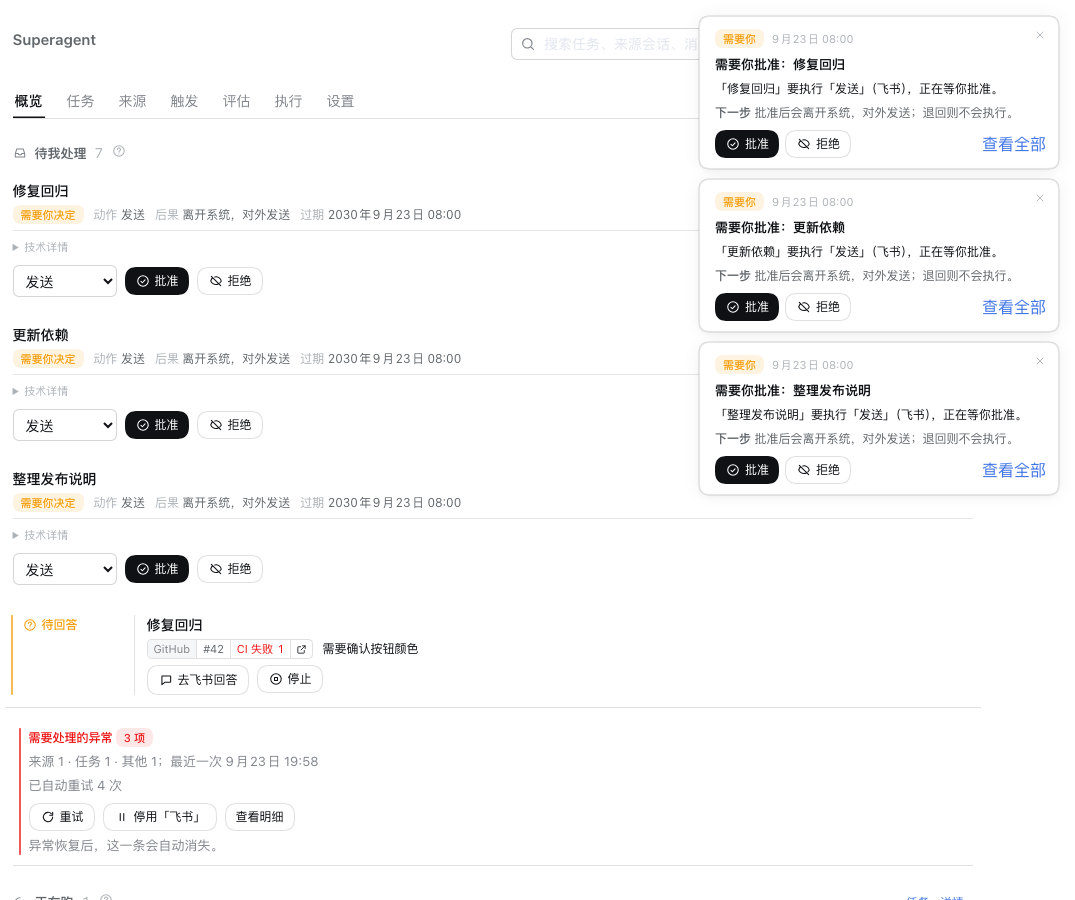
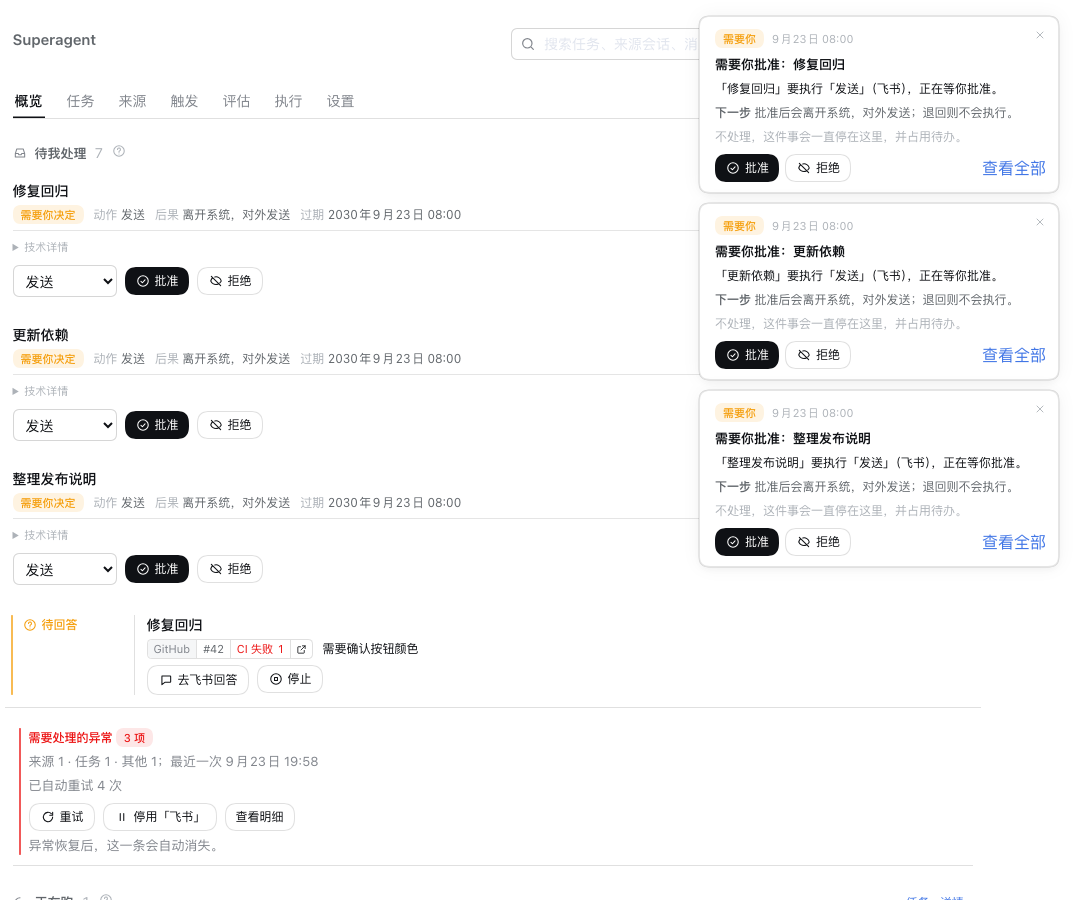
fix(ui): keep the open hierarchy fresh and finish the notice pass
Resolve every stack entry against the newest tasks poll so status, next step,
blocker and reports do not freeze after entry; use the 021 words for blocked
and unfinished tasks; show unread dots and per-group unread counts; pause cards
on keyboard focus and announce the stack politely. Rename the old E2 tree tab,
keep the session entry on the root level, and refresh the captures.

diff --git a/packages/dsh/src/client/task-detail.tsx b/packages/dsh/src/client/task-detail.tsx
@@ -27,6 +27,9 @@ export function nextStep(task: TaskView, t: T): string {
   return t('taskHierarchyNextWorking')
 }
 
+const statusLabel = (t: T, status: TaskView['status']): string => status === 'blocked' ? t('stage.blocked')
+  : status === 'failed' ? t('stage.failed') : t(`activityStatus.${status}`)
+
 const profileText = (t: T, profile: { id: string; revision: number } | undefined): string =>
   profile ? t('taskHierarchyOwnerProfile', profile) : t('taskHierarchyOwnerDefault')
 
@@ -46,7 +49,7 @@ function Blocker({ task, t }: { task: TaskView; t: T }) {
   const label = task.blocker.kind === 'delivery' ? t('taskHierarchyNextDelivery')
     : task.blocker.kind === 'orphaned' ? t('tasksNeedsOwner')
       : task.blocker.kind === 'child' ? `${task.blocker.count ?? 0} ${t('taskHierarchyChildren')}`
-        : t(`activityStatus.${task.blocker.kind}`)
+        : task.blocker.kind === 'blocked' ? t('stage.blocked') : t('stage.failed')
   return <div className="dt-task-report">
     <Tag tone={task.blocker.kind === 'failed' ? 'danger' : 'warning'}>{label}</Tag>
     {task.blocker.kind === 'child' ? <span>{t('taskHierarchyChildBlocker', { count: task.blocker.count ?? 0 })}</span>
@@ -91,7 +94,7 @@ function LevelRow({ task, t, onEnter }: { task: TaskView; t: T; onEnter: () => v
   return <li className="dt-task-level" data-status={task.status}>
     <div className="dt-task-level-head">
       <button type="button" className="dt-task-level-title" onClick={onEnter}>{task.title}</button>
-      <Tag tone={STATUS_TONE[task.status]}>{t(`activityStatus.${task.status}`)}</Tag>
+      <Tag tone={STATUS_TONE[task.status]}>{statusLabel(t, task.status)}</Tag>
       {task.terminal && <Tag tone="quiet">{t(`tasksTerminal.${task.terminal}`)}</Tag>}
     </div>
     <div className="dt-task-level-meta">
@@ -118,14 +121,21 @@ function LevelRow({ task, t, onEnter }: { task: TaskView; t: T; onEnter: () => v
 export function TaskDetail({ task, store, onBack, onOpenTicket }: { task: TaskView; store: TasksViewClient
   onBack: () => void; onOpenTicket: (id: string) => void }) {
   const { t, navigate, openSession, notify } = usePanel()
-  useTasksView(store)
-  const [stack, setStack] = useState<TaskView[]>([task])
-  useEffect(() => { setStack([task]) }, [task.id])
-  const focus = stack.at(-1) ?? task
-  useEffect(() => { if (focus.childSummary?.total) store.ensureDetail(focus.id) }, [store, focus.id, focus.childSummary?.total])
+  const snapshot = useTasksView(store)
+  // Entries keep the row a person entered from; every render resolves the same id against the newest poll answer,
+  // so an open detail does not freeze at the first render while the list keeps moving underneath it.
+  const [stack, setStack] = useState<Array<{ id: string; task: TaskView }>>(() => [{ id: task.id, task }])
+  useEffect(() => {
+    setStack(current => current[0]?.id === task.id ? current : [{ id: task.id, task }])
+  }, [task.id, task])
+  const resolved = stack.map(entry => entry.id === task.id ? task : store.detailOf(entry.id)?.task ?? store.findTask(entry.id) ?? entry.task)
+  const focus = resolved.at(-1) ?? task
+  const ids = stack.map(entry => entry.id).join('\u0000')
+  const generatedAt = snapshot.data?.generatedAt
+  useEffect(() => { for (const entry of stack) store.ensureDetail(entry.id) }, [store, ids, generatedAt])
   const detail = store.detailOf(focus.id)
   const children = detail?.children ?? focus.children ?? []
-  const sessionId = focus.worker?.sessionId ?? focus.execution.sessionId
+  const sessionId = focus.parentTicketId ? undefined : focus.worker?.sessionId ?? focus.execution.sessionId
   const deeper = (focus.childSummary?.total ?? 0) - children.length
   const source = useMemo(() => focus.sources.map(item => item.source).find(Boolean) ?? focus.origin.source, [focus])
   return <section className="dt-task-detail" aria-label={t('taskHierarchyGoal')}>
@@ -134,9 +144,9 @@ export function TaskDetail({ task, store, onBack, onOpenTicket }: { task: TaskVi
         <Button variant="ghost" size="sm" icon={<Icon name="chevron-left" size={14} />} onClick={() => {
           if (stack.length > 1) setStack(stack.slice(0, -1)); else onBack()
         }}>{stack.length > 1 ? t('taskHierarchyParent') : t('taskHierarchyBack')}</Button>
-        {stack.length > 1 && <p className="dt-hint">{stack.map(item => item.title).join(' / ')}</p>}
+        {stack.length > 1 && <p className="dt-hint">{resolved.map(item => item.title).join(' / ')}</p>}
         <h2 className="dt-task-detail-title">{focus.title}</h2>
-        <div className="dt-task-level-meta">{t('taskHierarchyStatus')} · {t(`activityStatus.${focus.status}`)}
+        <div className="dt-task-level-meta">{t('taskHierarchyStatus')} · {statusLabel(t, focus.status)}
           {source && ` · ${t('taskHierarchySource')} ${valueLabel(t, 'source', source)}`}</div>
       </div>
       <Button variant="outline" size="sm" icon={<Icon name="external" size={13} />}
@@ -165,7 +175,7 @@ export function TaskDetail({ task, store, onBack, onOpenTicket }: { task: TaskVi
     <div className="dt-task-detail-section">
       <h4>{t('taskHierarchyChildren')}</h4>
       {children.length ? <ul className="dt-task-levels">{children.map(child => <LevelRow key={child.id} task={child} t={t}
-        onEnter={() => { store.ensureDetail(child.id); setStack([...stack, child]) }} />)}</ul>
+        onEnter={() => { store.ensureDetail(child.id); setStack([...stack, { id: child.id, task: child }]) }} />)}</ul>
         : focus.childSummary?.total ? <p className="dt-hint">{t('loading')}</p> : <p className="dt-hint">{t('taskHierarchyNoChildren')}</p>}
       {deeper > 0 && <p className="dt-hint">{t('taskHierarchyMore', { count: deeper })}</p>}
     </div>

diff --git a/packages/dsh/src/client/notification-center.tsx b/packages/dsh/src/client/notification-center.tsx
@@ -23,6 +23,7 @@ type Group = typeof GROUPS[number]
 
 interface NoticeCenter {
   items: readonly Notice[]
+  read: ReadonlySet<string>
   unread: number
   open: boolean
   openDrawer: () => void
@@ -68,11 +69,12 @@ function NoticeActions({ notice, onAction, busy, compact = false }: { notice: No
   </div>
 }
 
-function NoticeBody({ notice, compact = false }: { notice: Notice; compact?: boolean }) {
+function NoticeBody({ notice, compact = false, unread = false }: { notice: Notice; compact?: boolean; unread?: boolean }) {
   const { t } = usePanel()
   const [details, setDetails] = useState(false)
   return <>
     <div className="dt-notice-head">
+      {unread && <span className="dt-notice-unread" role="img" aria-label={t('noticeUnreadMark')} />}
       <span className="dt-tag" data-tone={kindTone(notice.kind)}>{kindLabel(t, notice.kind)}</span>
       <span className="dt-notice-time">{when(notice.at, t('lang'))}</span>
       {notice.kind === 'system' && notice.attempts !== undefined
@@ -103,7 +105,8 @@ function ToastCard({ notice, onDone, onAction, onOpenDrawer, busy }: { notice: N
     return () => clearTimeout(timer)
   }, [paused, notice.id])
   return <article className="dt-notice-card" role="group" aria-label={notice.title} onMouseEnter={() => setPaused(true)}
-    onMouseLeave={() => setPaused(false)}>
+    onMouseLeave={() => setPaused(false)} onFocus={() => setPaused(true)}
+    onBlur={event => { if (!event.currentTarget.contains(event.relatedTarget as Node | null)) setPaused(false) }}>
     <div className="dt-notice-card-bar" data-kind={notice.kind} />
     <div className="dt-notice-card-body">
       <button type="button" className="dt-notice-close" aria-label={t('close')} title={t('close')} onClick={onDone}>
@@ -126,6 +129,7 @@ function Drawer({ center }: { center: NoticeCenter }) {
     return () => document.removeEventListener('keydown', onKey)
   }, [center])
   const items = group === 'all' ? center.items : center.items.filter(item => item.kind === group)
+  const unreadIn = (kind?: Group) => center.items.filter(item => (!kind || item.kind === kind) && !center.read.has(item.id)).length
   return createPortal(<div className="dt-drawer-backdrop" onMouseDown={event => { if (event.target === event.currentTarget) center.closeDrawer() }}>
     <aside className="dt-drawer" role="dialog" aria-modal="true" aria-labelledby="dt-drawer-title">
       <header className="dt-drawer-head">
@@ -140,13 +144,13 @@ function Drawer({ center }: { center: NoticeCenter }) {
         <div className="dt-pills" role="group" aria-label={t('notifications')}>
           <Pill active={group === 'all'} onClick={() => setGroup('all')}>{t('noticeGroup.all')}{center.unread ? ` · ${center.unread}` : ''}</Pill>
           {GROUPS.map(kind => <Pill key={kind} active={group === kind} onClick={() => setGroup(kind)}>
-            {kindLabel(t, kind)} {center.items.filter(item => item.kind === kind).length}</Pill>)}
+            {kindLabel(t, kind)}{unreadIn(kind) ? ` · ${unreadIn(kind)}` : ''}</Pill>)}
         </div>
         <Button variant="outline" size="sm" disabled={!center.unread} onClick={center.markAllRead}>{t('noticeMarkAllRead')}</Button>
       </div>
       <div className="dt-drawer-list">
         {items.length ? items.map(notice => <article key={notice.id} className="dt-notice-item" data-kind={notice.kind}>
-          <NoticeBody notice={notice} />
+          <NoticeBody notice={notice} unread={!center.read.has(notice.id)} />
           <NoticeActions notice={notice} onAction={center.onAction} busy={center.busy} />
         </article>) : <p className="dt-hint">{t('noticeEmpty')}</p>}
       </div>
@@ -267,11 +271,12 @@ export function NotificationHost({ children }: { children: ReactNode }) {
   // The drawer and the floating cards are separate switches: turning the drawer off must keep the cards that the
   // overlay switch still allows, and turning both off returns the page untouched.
   if (!active) return <>{children}</>
-  const center: NoticeCenter = { items, unread, open, openDrawer: () => setOpen(true), closeDrawer: () => setOpen(false),
+  const center: NoticeCenter = { items, read, unread, open, openDrawer: () => setOpen(true), closeDrawer: () => setOpen(false),
     markAllRead, onAction: action, busy }
   const body = <>
     {children}
-    {overlay.current && createPortal(<div className="dt-notice-stack">
+    {overlay.current && createPortal(<div className="dt-notice-stack" role="status" aria-live="polite"
+      aria-label={t('notifications')}>
       {cards.map(notice => <ToastCard key={notice.id} notice={notice} busy={busy} onAction={action}
         onDone={() => { setCards(current => current.filter(item => item.id !== notice.id)); setTimeout(pump, 0) }}
         {...drawerOn ? { onOpenDrawer: () => setOpen(true) } : {}} />)}

diff --git a/packages/dsh/src/client/locales.ts b/packages/dsh/src/client/locales.ts
@@ -207,7 +207,7 @@ const TEXT = {
   tasksIntro: ['计划树按计划编号把任务归到里程碑，用于排障；日常在任务列表里看目标、状态、来源和结果。',
     'The plan tree groups tasks into milestones by plan id for diagnosis; everyday work uses the task list with its goal, state, sources and result.'],
   tasksViewLabel: ['任务视图', 'Task view'],
-  'tasksView.tickets': ['任务层级', 'Task hierarchy'],
+  'tasksView.tickets': ['任务树（E2）', 'Task tree (E2)'],
   tasksTicketsIntro: ['任务层级按父子关系显示；默认只展开一层，子任务按需加载，第四层及更深保持折叠。',
     'The task hierarchy shows parent/child relationships; one level is visible by default, children load on demand, and the fourth level and deeper stay collapsed.'],
   'tasksRole.child': ['子任务', 'Child task'],
@@ -303,6 +303,7 @@ const TEXT = {
   notifications: ['通知', 'Notifications'],
   notificationsHint: ['需要你、进展和系统异常都收在这里；浮层只是提醒，抽屉保留全部。', 'Needs you, progress and system trouble live here; the cards only interrupt, the drawer keeps everything.'],
   noticeUnread: ['{count} 条未读通知', '{count} unread notices'],
+  noticeUnreadMark: ['未读', 'Unread'],
   noticeEmpty: ['没有通知。', 'No notices.'],
   'noticeGroup.all': ['全部', 'All'],
   'noticeGroup.attention': ['需要你', 'Needs you'],

diff --git a/tests/panel-task-hierarchy.spec.tsx b/tests/panel-task-hierarchy.spec.tsx
@@ -47,6 +47,8 @@ it('opens one task level from the list and shows goal, owner, children, delivera
   expect(detail.textContent).toContain('补迁移说明')
   expect(detail.textContent).toContain(zh.taskHierarchyReportedFailed)
   expect(detail.textContent).toContain('缺少迁移目标')
+  expect(detail.textContent).toContain(zh['stage.blocked'])
+  expect(detail.textContent).not.toContain(zh['activityStatus.blocked'])
   expect(detail.textContent).toContain(zh.taskHierarchyDeliverables)
   expect(detail.textContent).toContain('docs/migration.md · r1')
   expect(detail.textContent).toContain(zh.taskHierarchyBlockers)
@@ -59,6 +61,9 @@ it('opens one task level from the list and shows goal, owner, children, delivera
   expect(detail.querySelector('.dt-e0-technical')?.textContent).toContain('t1')
   await click(zh.taskHierarchyOpenSession)
   expect(server.opened).toEqual(['worker-t1'])
+  // The child level has no working-session entry of its own; only the root level does.
+  await click(detail.querySelector<HTMLElement>('.dt-task-levels button')!)
+  expect(document.querySelector('.dt-task-detail')!.textContent).not.toContain(zh.taskHierarchyOpenSession)
 })
 
 it('keeps the compact selected-row goal when ux.taskHierarchy.v1 is off', async () => {

diff --git a/packages/dsh/src/client/client.css b/packages/dsh/src/client/client.css
@@ -546,6 +546,7 @@ a.dt-btn, a.dt-btn:hover { text-decoration: none; }
 .dt-notice-card-body { display: flex; flex: 1 1 auto; flex-direction: column; gap: 6px; min-width: 0; padding: 12px 12px 10px; }
 .dt-notice-close { position: absolute; top: 6px; right: 6px; display: inline-flex; align-items: center; justify-content: center; width: 24px; height: 24px; border: none; border-radius: 6px; background: transparent; color: var(--dsw-alias-label-caption); cursor: pointer; }
 .dt-notice-close:hover { background: var(--dsw-alias-interactive-bg-hover); color: var(--dsw-alias-label-primary); }
+.dt-notice-unread { flex: none; width: 6px; height: 6px; border-radius: 50%; background: var(--dsw-alias-bg-info, #2f6fed); }
 .dt-notice-head { display: flex; align-items: center; flex-wrap: wrap; gap: 4px 8px; padding-right: 20px; }
 .dt-notice-time { color: var(--dsw-alias-label-caption); font-size: 11px; line-height: 16px; }
 .dt-notice-title { margin: 0; font-size: 13px; line-height: 20px; font-weight: 600; overflow-wrap: anywhere; }

diff --git a/tests/panel-notifications.spec.tsx b/tests/panel-notifications.spec.tsx
@@ -31,8 +31,10 @@ it('shows an unread badge, opens the drawer from the bell and groups notices by 
   // Each item answers what happened, what you can do and what ignoring it costs.
   expect(drawer()!.textContent).toContain(zh.noticeApprovalConsequence)
   expect(all('.dt-notice-item[data-kind="attention"]').length).toBe(2)
+  expect(drawer()!.querySelectorAll('.dt-notice-unread').length).toBeGreaterThan(0)
   await click(zh.noticeMarkAllRead)
   expect(bell()?.querySelector('.dt-bell-badge')).toBeNull()
+  expect(drawer()!.querySelectorAll('.dt-notice-unread')).toHaveLength(0)
 })
 
 it('approves and hands a Source over to Settings from the drawer without leaving the notice', async () => {

diff --git a/packages/dsh/src/client/tasks.tsx b/packages/dsh/src/client/tasks.tsx
@@ -52,7 +52,8 @@ export function orderTasks(tasks: readonly TaskView[]): TaskView[] {
   return ordered
 }
 
-const statusLabel = (t: T, status: ActivityStatus): string => t(`activityStatus.${status}`)
+const statusLabel = (t: T, status: ActivityStatus): string => status === 'blocked' ? t('stage.blocked')
+  : status === 'failed' ? t('stage.failed') : t(`activityStatus.${status}`)
 const kindLabel = (t: T, node: TaskNode): string => t(`tasksKind.${node.kind}`)
 
 /** Internal navigation for a Ticket or Thread, and a new tab for a source URL. */

diff --git a/tests/panel-tasks.spec.tsx b/tests/panel-tasks.spec.tsx
@@ -136,7 +136,7 @@ it('shows the E1 selected detail with the E0 goal, decision and result, and no w
   expect(item.textContent).toContain(zh['tasksRole.parentWorker'])
   expect(item.textContent).not.toMatch(/worker-|Assignment|sessionId|assignmentId|workerId/)
   const blocked = row('整理迁移说明')!
-  expect(blocked.textContent).toContain(zh['activityStatus.blocked'])
+  expect(blocked.textContent).toContain(zh['stage.blocked'])
 })
 
 it('rolls back to the plan tree with taskView.v1=off and offers no list view', async () => {

diff --git a/docs/023-ux-first-batch.zh.md b/docs/023-ux-first-batch.zh.md
@@ -28,8 +28,8 @@
 
 - 通知是 `GET overview` 的**客户端投影**（`packages/dsh/src/client/notifications.ts`），不是新的服务端实体：没有 `notifications` 表，没有第二份状态。上游记录消失，下一次轮询后通知即消失。
 - 投影来源：Approval → 需要你；`person` 中待回答/待审阅/待交付 → 需要你；`recent` 中新结束的任务 → 进展；`problems` 与 `person` 中失败/阻断的任务 → 系统（一条聚合）。
-- 浮层只弹 `pop` 的新通知，最多三张；8 秒自动关闭，鼠标悬停暂停；关闭后队列依次补位。首次加载会把既有通知记为已见，避免刷新时把旧活弹一遍。
-- 抽屉保留全量；筛选“全部 / 需要你 / 进展 / 系统”，可“全部标为已读”。已读游标存在浏览器 `localStorage`，最多 500 个 id，不写 Store。
+- 浮层只弹 `pop` 的新通知，最多三张；8 秒自动关闭，鼠标悬停或键盘焦点进入时暂停；卡片容器是 `aria-live="polite"` 状态区，关闭后队列依次补位。首次加载会把既有通知记为已见，避免刷新时把旧活弹一遍。
+- 抽屉保留全量；筛选“全部 / 需要你 / 进展 / 系统”，分组显示未读数，未读行有圆点，可“全部标为已读”。已读游标存在浏览器 `localStorage`，最多 500 个 id，不写 Store。
 - 每条通知固定三问：`title` + `what`（发生了什么）、`next`（你可以做什么）、`consequence`（不理会的后果）。按钮直接调用已有管理 API；没有新增权限。
 - “停用来源”走 `GET settings` + `PUT settings/:block`，与设置页同一写路径；写前有确认，来源不存在时提示并保持原状。读取失败或写入失败只在通知层报错，不伪造成功。
 
@@ -83,7 +83,7 @@
 
 ### 5.1 视觉证据
 
-同场景、1440×900、light、zh-CN、同一 fixture；只截 Superagent 面板，左侧 DSH 会话栏与真实工作区标题不入镜。Before 取 `main@e0e1336`（之后 `39b8a08` 只改文档），After 取本 PR 构建。截图中的任务标题、负责人、来源和账号均为脱敏 fixture。
+同场景、1440×900 视口、light、zh-CN、同一合成 fixture；截图只保留 Superagent 面板（1075×900），左侧 DSH 会话栏与真实工作区标题不入镜。fixture 的负责人/子任务是为展示层级而合成，不代表真实继承链。Before 取 `main@e0e1336`（之后 `39b8a08` 只改文档），After 取本 PR 构建。截图中的任务标题、负责人、来源和账号均为脱敏 fixture。
 
 | 场景 | Before | After |
 | --- | --- | --- |
